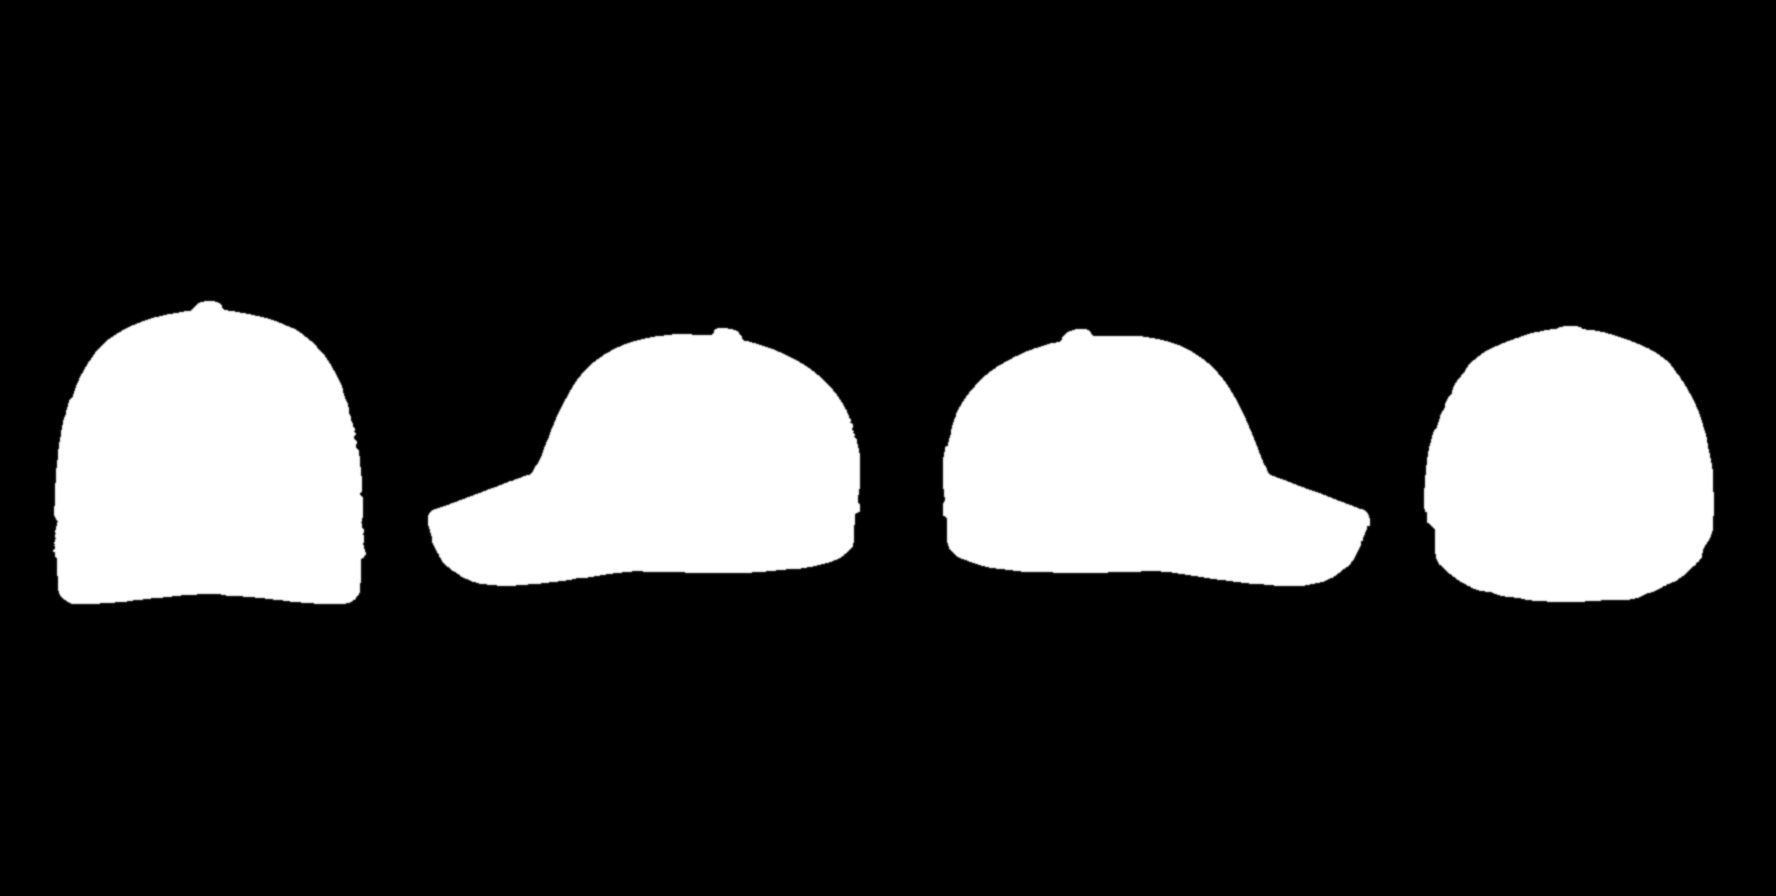
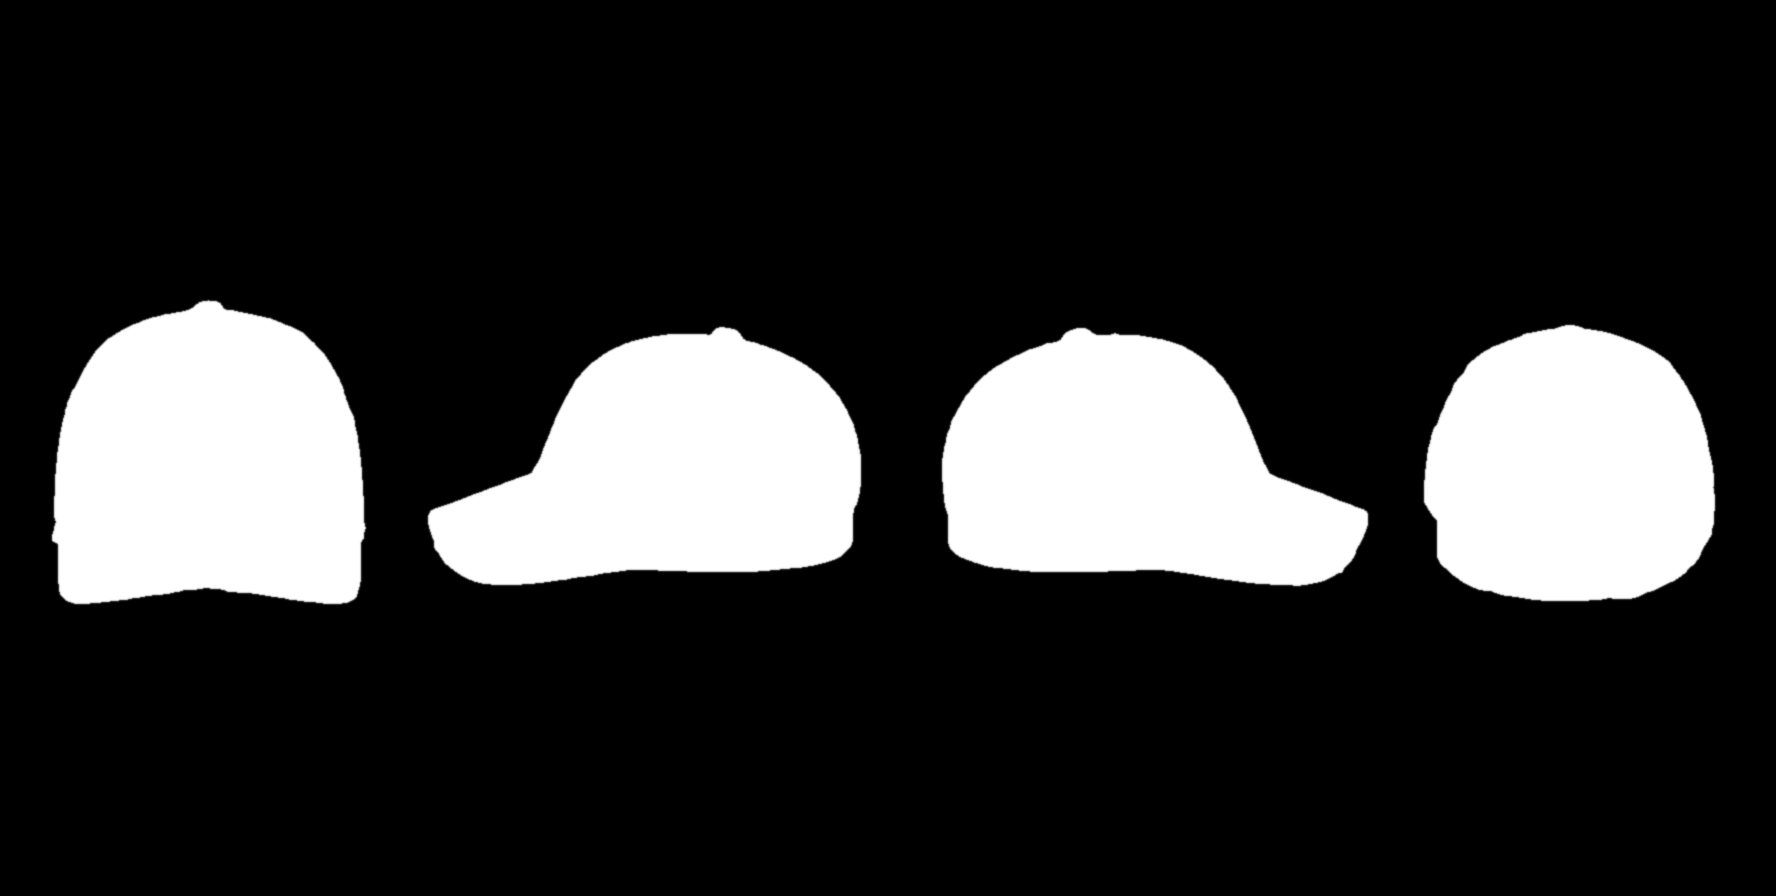
Konfigurator: Kappe sauber freigestellt, Bodenschatten bleibt unverändert
Claude-Session: https://claude.ai/code/session_01VgMNm2JQ5rEuMZ6iNr5NQ8

diff --git a/website/index.html b/website/index.html
@@ -3884,9 +3884,9 @@ function kfSet(mode) {
   document.querySelector('.kontakt-grid').classList.toggle('kf-on', mode === 'tool');
   kfMsgPlaceholder();
   if (mode !== 'tool' || kfLoad) return;
-  if (!document.getElementById('kfCss')) { const l = document.createElement('link'); l.id = 'kfCss'; l.rel = 'stylesheet'; l.href = 'konfigurator/konfig.css?v=3'; document.head.append(l); }
+  if (!document.getElementById('kfCss')) { const l = document.createElement('link'); l.id = 'kfCss'; l.rel = 'stylesheet'; l.href = 'konfigurator/konfig.css?v=4'; document.head.append(l); }
   kfLoad = (async () => {
-    if (!window.WFKonfig) await kfScript('konfigurator/konfig.js?v=3');
+    if (!window.WFKonfig) await kfScript('konfigurator/konfig.js?v=4');
     const holder = document.createElement('div');
     box.replaceChildren(holder);
     window.__wfK = await WFKonfig.mount(holder, { mode: 'kunde', lang: currentLang, base: 'konfigurator/', onChange: (k) => {

diff --git a/auftraege/assets/konfig-app.js b/auftraege/assets/konfig-app.js
@@ -12,8 +12,8 @@ let loading = null;
 function loadKonfig() {
   if (window.WFKonfig) return Promise.resolve();
   if (loading) return loading;
-  if (!document.getElementById('wfkCss')) document.head.append(h('link', { id: 'wfkCss', rel: 'stylesheet', href: KBASE + 'konfig.css?v=3' }));
-  loading = new Promise((ok, bad) => { const s = document.createElement('script'); s.src = KBASE + 'konfig.js?v=3'; s.onload = ok; s.onerror = () => { loading = null; bad(new Error(t('konfig_err'))); }; document.head.append(s); });
+  if (!document.getElementById('wfkCss')) document.head.append(h('link', { id: 'wfkCss', rel: 'stylesheet', href: KBASE + 'konfig.css?v=4' }));
+  loading = new Promise((ok, bad) => { const s = document.createElement('script'); s.src = KBASE + 'konfig.js?v=4'; s.onload = ok; s.onerror = () => { loading = null; bad(new Error(t('konfig_err'))); }; document.head.append(s); });
   return loading;
 }
 

diff --git a/tools/konfigurator/freistellen.py b/tools/konfigurator/freistellen.py
@@ -64,28 +64,29 @@ if n4:
     sizes = ndi.sum(np.ones_like(lab4), lab4, index=np.arange(1, n4 + 1))
     fg |= np.isin(lab4, np.nonzero(sizes < 400)[0] + 1)
 if HELL:
-    # helles Produkt auf grauem Grund mit Bodenschatten: nur was heller als der Grund ist (plus Eingeschlossenes)
-    br = ndi.binary_closing(d > 3, iterations=4)
-    br = ndi.binary_fill_holes(br)
+    # Helles Produkt auf grauem Grund (Kappe): Produkt = heller als der Grund oder sehr dunkel (Schirm-Unterseite).
+    # Der Bodenschatten liegt dazwischen (etwas dunkler als der Grund) und bleibt draußen.
+    br = (d > 2) | (d < -46)
+    br = ndi.binary_closing(br, iterations=2)
     lab5, n5 = ndi.label(br)
     if n5:
         sizes = ndi.sum(np.ones_like(lab5), lab5, index=np.arange(1, n5 + 1))
-        br = np.isin(lab5, np.nonzero(sizes >= 2000)[0] + 1)
-    fg &= br
+        br = np.isin(lab5, np.nonzero(sizes >= 5000)[0] + 1)
+    br = ndi.binary_fill_holes(br)
+    fg = ndi.gaussian_filter(br.astype(np.float32), 1.5) > 0.5
 if BODEN:
-    # Bodenschatten unten am Produkt nicht mitfärben: je Spalte von unten nach oben die hellgrauen
-    # Schattenpixel abtragen. Sehr dunkle Pixel (Unterseite des Schirms) gehören zum Produkt und bleiben.
+    # Bodenschatten unten am Produkt nicht mitfärben: je Spalte von unten nach oben alles abtragen, was weder
+    # heller als der Grund (Produkt) noch sehr dunkel (Unterseite des Schirms) ist.
     for x in range(w):
         ys = np.nonzero(fg[:, x])[0]
         if not len(ys):
             continue
         y = ys[-1]
         k = 0
-        while y >= 0 and fg[y, x] and k < BODEN and -35 < d[y, x] < -2:
+        while y >= 0 and fg[y, x] and k < BODEN and -46 <= d[y, x] <= 2:
             fg[y, x] = False; y -= 1; k += 1
-    # stehengebliebene senkrechte Zacken glätten
-    fg = ndi.binary_opening(fg, structure=np.ones((1, 11), bool))
-    fg = ndi.binary_closing(fg, structure=np.ones((1, 7), bool))
+    # Umriss glätten (Zacken vom spaltenweisen Abtragen weg)
+    fg = ndi.gaussian_filter(fg.astype(np.float32), 2.0) > 0.5
 m = Image.fromarray((fg * 255).astype(np.uint8)).filter(ImageFilter.GaussianBlur(0.8))
 m.save(dst + '-m.png', optimize=True)
 im.save(dst + '.jpg', quality=90, optimize=True, progressive=True)
